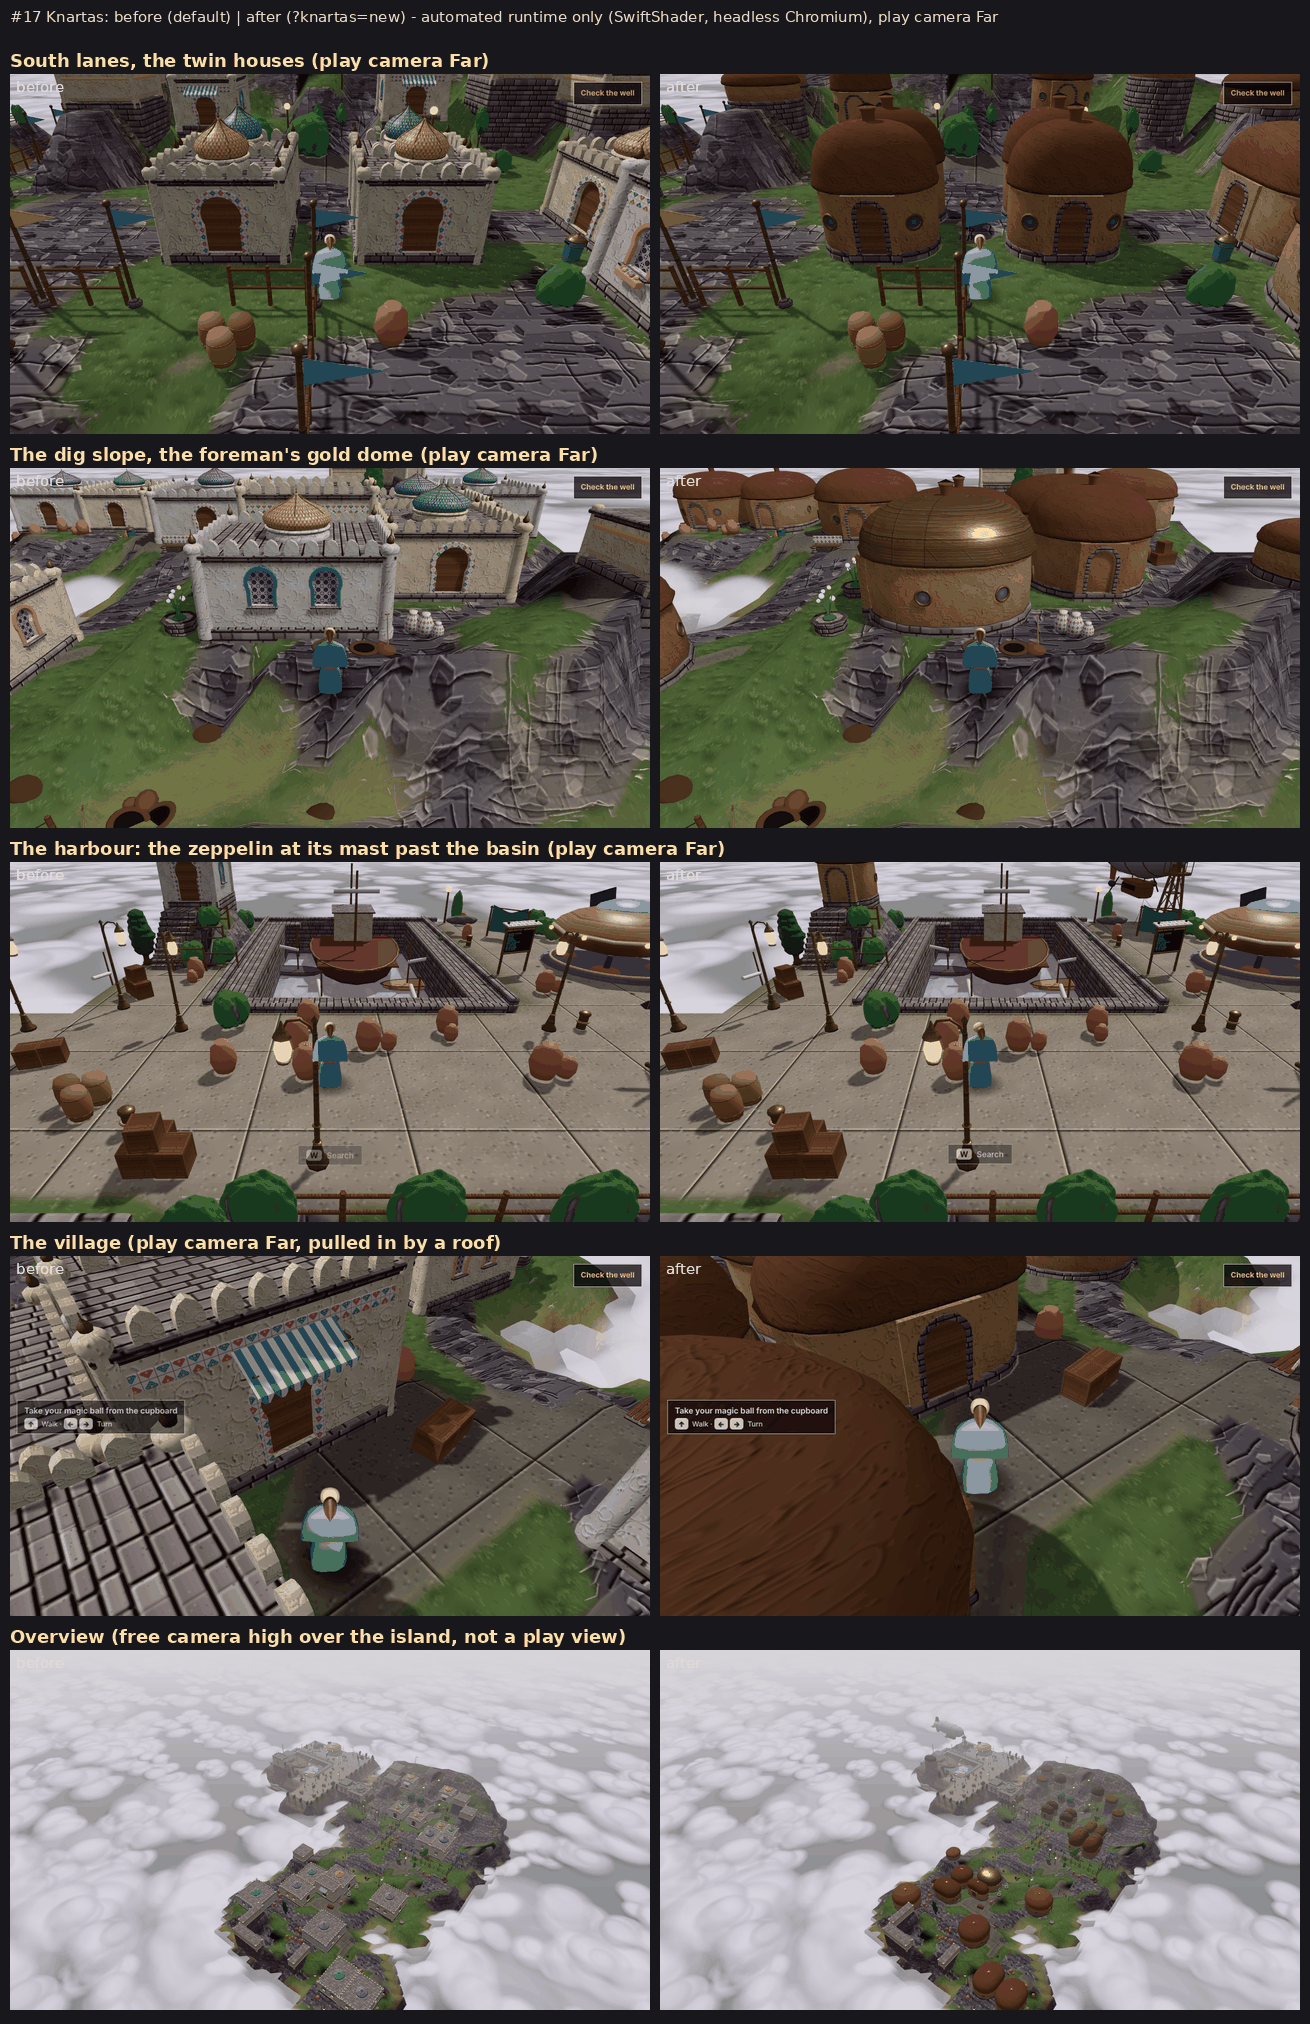
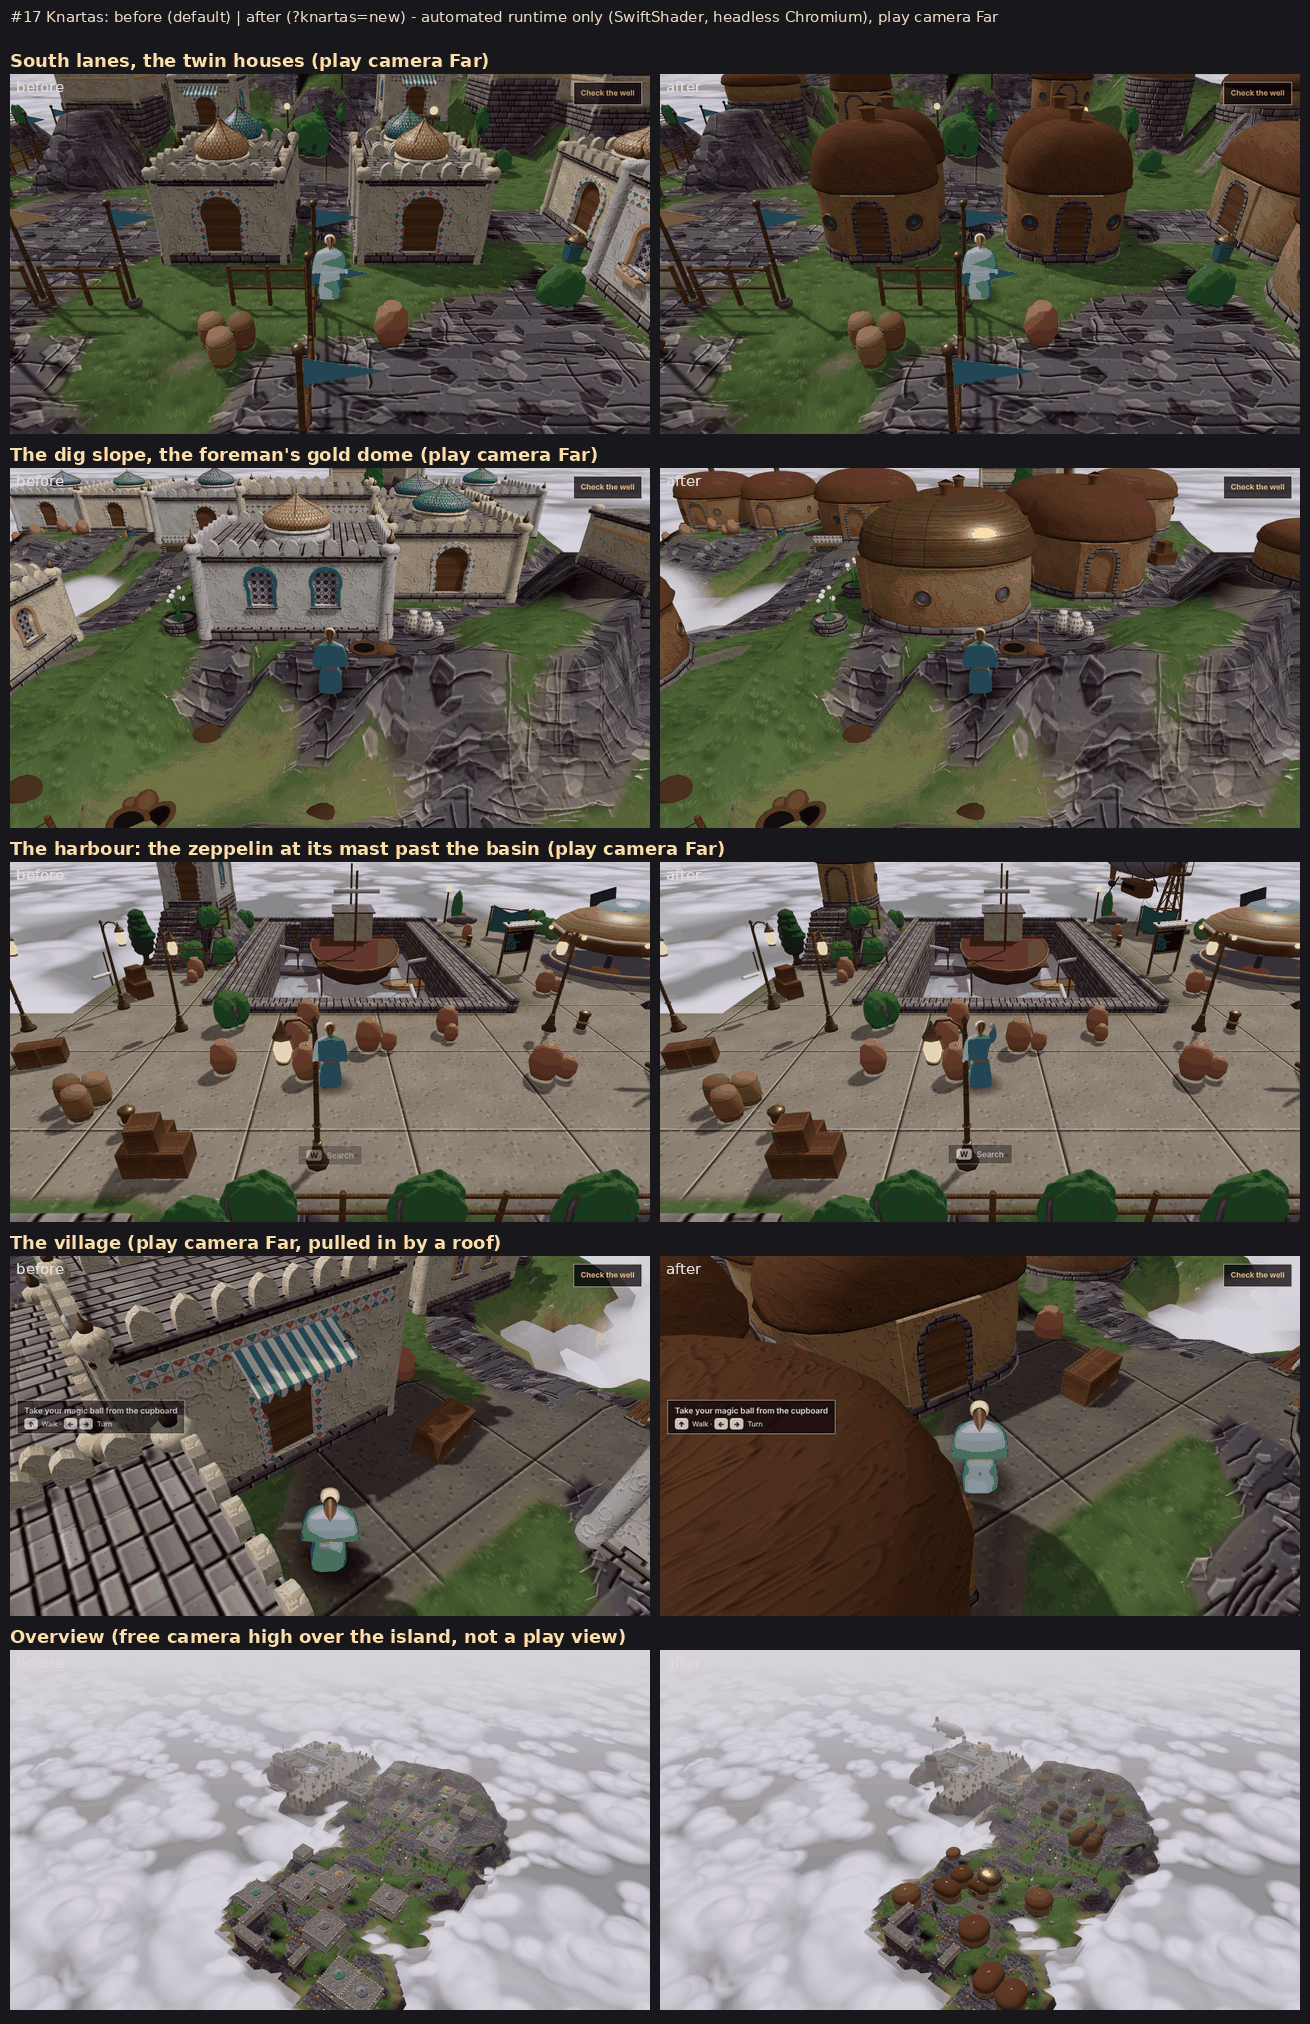
#17 Knartas: the hull's camera volume from its nose (the camera was inside it at the arm's tip), the gondola's over the clouds; the original's jars make room for the mast; final captures, cost and island-doors 24/24
Claude-Session: https://claude.ai/code/session_012GFEakZyL3XxjZKHRj5dFg

diff --git a/lba3/src/game/zislands.js b/lba3/src/game/zislands.js
@@ -636,7 +636,8 @@ const STYLE = {
     // (ISLES-BAR: the original's pieces that stood on its arches and walls, which ours do not draw, hung 1.5-3.4 m over the
     //  ground or on a wall: a wooden frame on the canteen's front, two posts and a lamp over the lane: not built (S.open:
     //  the plan keeps its numbers), as the lintels are left out (bodies 26, 46 up high, 52, 53, 68, 69, 72, 80))
-    open: (o) => [26, 52, 53, 68, 69, 72, 80].includes(o.body) || (o.body === 46 && o.y > 5),
+    // (#17 ?knartas=new: the original's four jars at the south arm's west end make room for the zeppelin's mooring mast)
+    open: (o) => [26, 52, 53, 68, 69, 72, 80].includes(o.body) || (o.body === 46 && o.y > 5) || (KNARTAS_NEW && o.body >= 9 && o.body <= 12 && Math.hypot(o.x + 32.6, o.z + 40.2) < 2.2),
     shape: (o) => (o.body === 13 && o.kind === 'tall' ? 'lamp' : (o.body === 14 && o.y > 5) || (o.body === 31 && o.y > 4.5) ? 'skip' : o.body === 38 && o.y > 5 ? 'slab' : o.body === 16 && Math.hypot(o.x + 24.31, o.z + 18.51) < 0.05 ? 'skip' : (o.body === 44 && Math.hypot(o.x - 17.98, o.z + 15.84) < 0.05) || (o.body === 45 && Math.hypot(o.x - 19.26, o.z + 15.84) < 0.05) ? 'skip' : null),   // (KNARTAS-LEDGE: not the hedge's fence end the steps pass; DOOR-SWEEP: nor the pennant fence's panel and pole across the fishing family's door, which no way led round)
     lampPosts: true, jarMax: 1.15, harbour: { x0: -42, x1: -16.2, z0: -34.6, z1: -20.1, water: -0.12, open: 'x0' },
     // (KNARTAS-LEDGE: Quill's office's door on its ledge over the middle arm: steps down to the arm, a little toward its
@@ -670,7 +671,7 @@ const STYLE = {
       api.signs([{ word: 'VILLAGE', x: 22, z: 22 }]);
       // (#17 ?knartas=new: the zeppelin port at the south arm's west end: the mooring mast on the quay, the moored
       //  zeppelin over the clouds to the west; placed last, so nothing else of the plan moves for it)
-      if (KNARTAS_NEW) api.near('zepMast', -32.6, -40.2, -Math.PI / 2, {}, 1.5) || api.add('zepMast', -32.6, -40.2, -Math.PI / 2, {});
+      if (KNARTAS_NEW) api.near('zepMast', -32.6, -40.2, -Math.PI / 2, {}, 3.0) || api.add('zepMast', -32.6, -40.2, -Math.PI / 2, {});
     },
   },
   mosquibee: {   // the Mosquibees' honey island: a hive meadow on the broad top, flower beds and hives on the ledges

diff --git a/lba3/src/game/franco.js b/lba3/src/game/franco.js
@@ -226,8 +226,10 @@ export function zeppelinMast(P, o) {
     add(cached('zep-nac', () => tintGeo(lathe([[0.0001, 0], [0.22, 0.12], [0.3, 0.45], [0.26, 0.95], [0.12, 1.15], [0.0001, 1.2]], 10), '#6a6a6e')), mats.vc, M(ex, gy + 0.3, ez - 0.6, 0, Math.PI / 2));
     add(cached('zep-prop', () => tintGeo(bbox(0.12, 1.5, 0.05, 0.02, 1), '#4a3a30')), mats.vc, M(ex, gy + 0.3, ez - 0.66, 0, 0).multiply(new THREE.Matrix4().makeRotationZ(s * 0.5)));
   }
-  // the mooring lines from the gondola's nose down to the quay's edge, either side of the mast
-  // the mast's collider, and the hull's in the air (the camera keeps out of it: it is solid to the camera's sight,
-  // never reached on foot — it lies over the clouds)
-  return { cols: [{ type: 'cyl', lx: 0, lz: 0, r: 1.25, top: H + 1.0 }, { type: 'box', lx: 0, lz: z0 + 3.2 + (L - 3.2) / 2, hw: Rh * 0.9, hd: (L - 3.2) / 2, top: hy + Rh, bottom: hy - Rh - 1.6 }], nose: W(0, hy, z0), gondola: W(0, gy - 0.5, gz - 2.2), hy };
+  // the mast's collider, and the hull's and the gondola's in the air (the camera reads them as scenery and rises over
+  // them: roomocc.js occAuto; the hull's from its nose, over the quay too, but its underside 3 m over Twinsen's head, so
+  // he walks under the nose; the gondola's past the quay's edge, over the clouds, never reached on foot)
+  return { cols: [{ type: 'cyl', lx: 0, lz: 0, r: 1.25, top: H + 1.0 },
+    { type: 'box', lx: 0, lz: z0 + L / 2, hw: Rh * 0.95, hd: L / 2, top: hy + Rh, bottom: hy - Rh },
+    { type: 'box', lx: 0, lz: gz, hw: 2.3, hd: 2.5, top: hy - Rh + 0.2, bottom: gy - 0.8 }], nose: W(0, hy, z0), gondola: W(0, gy - 0.5, gz - 2.2), hy };
 }

diff --git a/lba3/docs/lba-maturity/KNARTAS-17.md b/lba3/docs/lba-maturity/KNARTAS-17.md
@@ -31,8 +31,12 @@ its own port; ours drew the houses as square Esmer boxes with blue domes and had
   with still propellers, two mooring lines down to the quay. Scenery only.
   - It is moored low, beside the quay, on purpose: the play camera looks down on the island, so anything above its own
     height is never in frame. A first version on a 12 m mast was visible only from overhead.
-  - The hull has a collider in the air, over the clouds, out of reach on foot. It keeps the camera out of the hull when
-    Twinsen stands at the arm's end facing inland.
+  - The hull and the gondola have colliders in the air. The camera reads them as scenery (roomocc.js occAuto) and keeps
+    out of the hull. The hull's collider starts at the nose, but its underside is 3 m over Twinsen's head, so he walks
+    under the nose; the gondola's lies past the quay's edge, out of reach on foot. Checked once at the arm's tip facing
+    inland, under the nose: the camera comes in close behind him and is not inside the hull. Before this fix, a capture
+    there showed the camera inside the nose.
+  - The original's four jars at the arm's west end are left out where the mast stands, with the switch on only.
 
 ## Doors, rooms, routes and saves
 
@@ -50,21 +54,21 @@ its own port; ours drew the houses as square Esmer boxes with blue domes and had
 
 | Spot (island-local) | draw calls before → after | triangles before → after |
 |---|---:|---:|
-| village (20.6, 23.2) | 60 → 53 | 653,483 → 486,825 |
-| dig slope / gold dome (20.5, 9.5) | 54 → 50 | 513,597 → 387,367 |
-| south lanes (22.3, −16.2) | 63 → 58 | 678,537 → 549,421 |
-| harbour (−12.0, −26.1) | 72 → 71 | 530,944 → 502,168 |
-| landing (shuttle spawn) | 87 → 81 | 824,993 → 658,352 |
-| quay by the pad (−18.9, −36.6) | 67 → 66 | 455,496 → 429,084 |
-| arm's west end, by the hull (−34.5, −35.9) | 93 → 88 | 821,600 → 682,033 |
-| quay south (−20, −44) | 71 → 70 | 332,776 → 328,915 |
+| village (20.6, 23.2) | 60 → 53 | 653,483 → 488,563 |
+| dig slope / gold dome (20.5, 9.5) | 54 → 50 | 513,597 → 387,365 |
+| south lanes (22.3, −16.2) | 63 → 58 | 678,537 → 546,335 |
+| harbour (−12.0, −26.1) | 72 → 71 | 530,944 → 492,518 |
+| landing (shuttle spawn) | 87 → 81 | 824,993 → 655,118 |
+| quay by the pad (−18.9, −36.6) | 67 → 66 | 455,496 → 419,434 |
+| arm's west end, by the hull (−34.5, −35.9) | 93 → 88 | 821,600 → 672,383 |
+| quay south (−20, −44) | 71 → 70 | 332,776 → 319,265 |
 
 The island's own group, measured once when it is built:
-- triangles 322,349 → 235,336;
-- vertex and index buffers 23.9 MB → 15.8 MB;
-- materials 69 → 65, meshes 151 → 147;
-- colliders 548 → 612 (a stadium hut has three);
-- build time 17.4 s → 16.6 s (one run each on a loaded SwiftShader machine: noise, not a measured gain).
+- triangles 322,349 → 236,926;
+- vertex and index buffers 23.9 MB → 16.0 MB;
+- materials 69 → 65, meshes 151 → 148;
+- colliders 548 → 610 (a stadium hut has three);
+- build time 17.4 s → 15.1 s (one run each on a loaded SwiftShader machine: noise, not a measured gain).
 
 Nothing is added per frame: no light, no update, no new texture. The huts' walls and domes share one vertex-coloured
 plaster material, and the zeppelin uses the island's existing materials (planks, brass, stone, the vertex-colour
@@ -76,8 +80,9 @@ material). No hardware figures; frame times and GPU cost on a real GPU are unmea
   - all **20 Knartas doors** PASS: walked to on foot from the shuttle pad, entered (on the room's floor, furnished, lit),
     the room's own look read, out facing away, in again;
   - the region's shut-doors check PASS; the save-inside / Continue check PASS.
-  - One FAIL, caused by the new region filter and not by the game: the keepers check asked keepers whose regions the
-    filtered run never built ("room not built"). The test now skips those under `REGIONS`. It was not re-run.
+  - A first run, partly on an earlier build, had one FAIL caused by the new region filter: the keepers check asked
+    keepers whose regions the filtered run never built. The test now skips those under `REGIONS`. Re-run once on the
+    final code: **PASS 24/24**, no errors.
 - `tests/francos.mjs` (H-15, from the campaign's format-6 chapter-4 save): **PASS**, every step A–H. This covers:
   - the old save loads;
   - Gubb at the gold dome's wall;
@@ -110,7 +115,7 @@ then be about 68 and 64. Still open:
 - **The village shot.** In the village shot (sheet row 4) the camera stands close to a dome, which fills the left of the
   frame. It does not hide Twinsen.
 - **By the zeppelin.** At the arm's west end, facing inland, the hull fills a third of the frame (beside the camera, not
-  between it and Twinsen).
+  between it and Twinsen). Right under the nose, the camera comes in close behind him.
 - **Refinery.** The refinery is still a flat walled yard (the review asks for its machinery block).
 - **Gatehouses.** The two gatehouses over the causeway and the thin solid walls stay Esmer: their passage logic is not
   touched.
